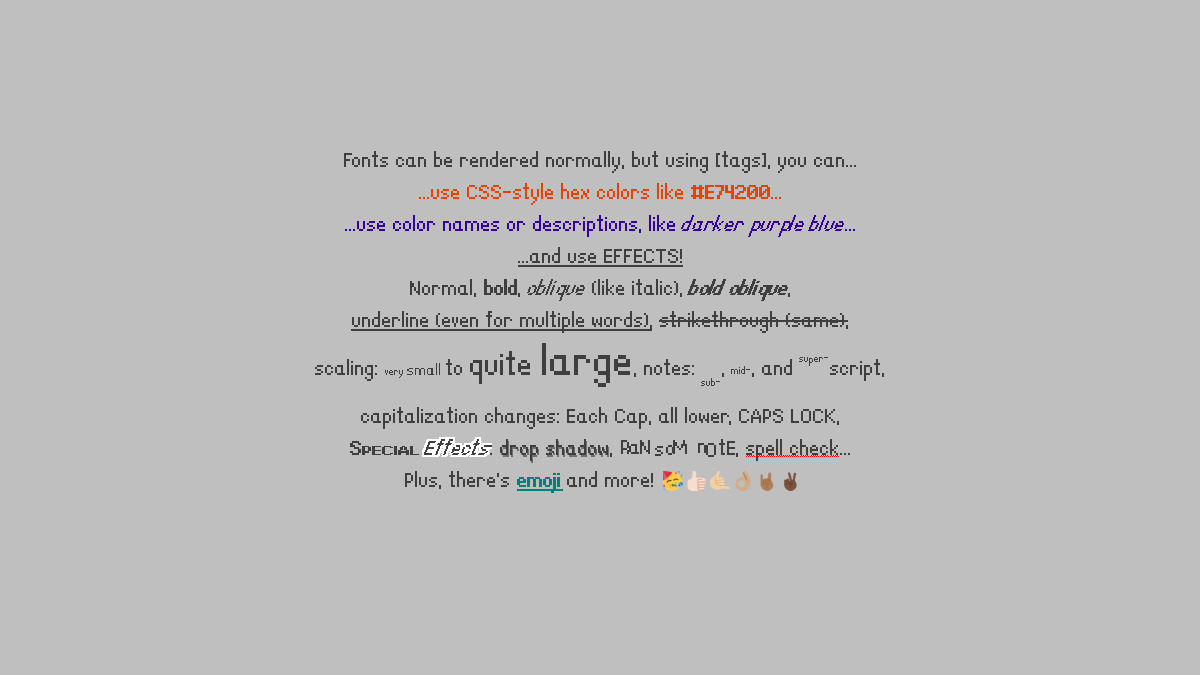
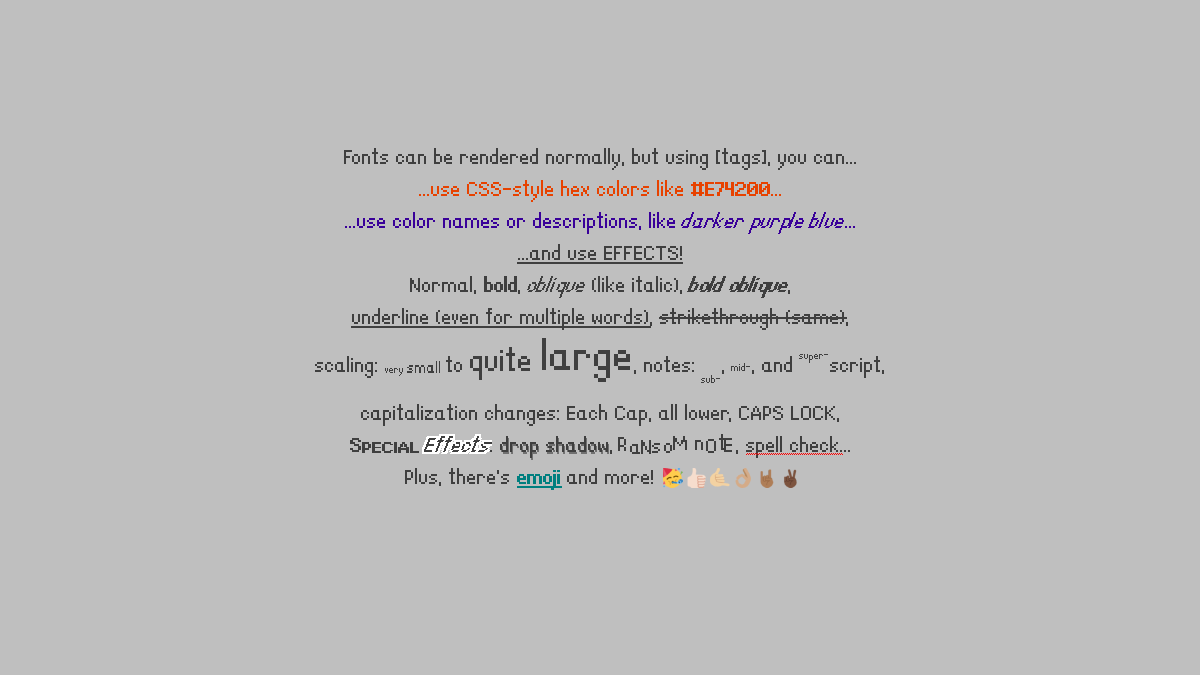
Underline was too low; fix it!
The preview for LanaPixel has been updated, too.

Changed region(s): [[0.2467, 0.4667, 0.7092, 0.7467], [0.2775, 0.2178, 0.7092, 0.4356], [0.6167, 0.5289, 0.74, 0.56]]

diff --git a/src/main/java/com/github/tommyettinger/textra/KnownFonts.java b/src/main/java/com/github/tommyettinger/textra/KnownFonts.java
@@ -2859,7 +2859,7 @@ public final class KnownFonts implements LifecycleListener {
             found
                     .setInlineImageMetrics(0f, 5f, -8f, 0.625f).setFancyLinePosition(0f, 4f)
                     .useIntegerPositions(true).setBoldStrength(0.5f).setOutlineStrength(2f).setDescent(-5f)
-                    .setUnderlineMetrics(-0.2f, -0.1f, 0.2f, -0.4f).setStrikethroughMetrics(-0.2f, 0.05f, 0.2f, -0.4f)
+                    .setUnderlineMetrics(-0.2f, -0.1625f, 0.2f, -0.4f).setStrikethroughMetrics(-0.2f, 0.05f, 0.2f, -0.4f)
                     .setName(baseName + distanceField.namePart);
             instance.loaded.put(rootName, found);
         }
